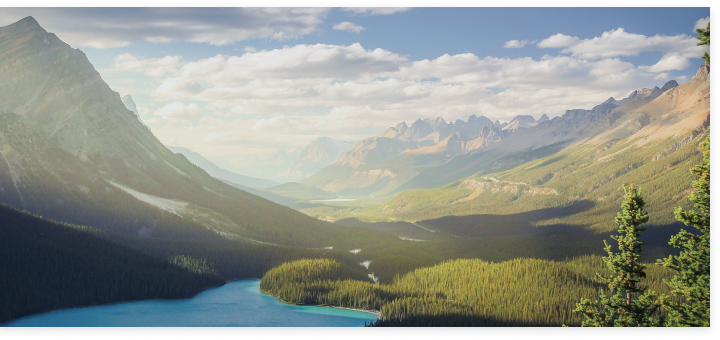
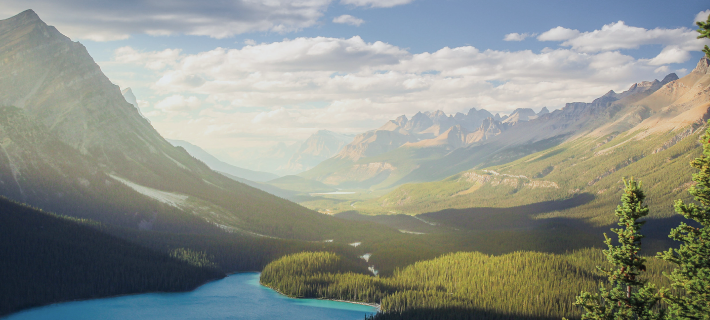
features

diff --git a/src/assets/sass/_features.scss b/src/assets/sass/_features.scss
@@ -1,16 +1,30 @@
 .features-section {
   height: 100vh;
   padding-top: 5.85rem;
+  box-sizing: content-box;
+  .container {
+    flex-direction: column;
+    .carousel_cont{
+      padding: 30px 0px 0px 0px;
+    }
+    .img_cont {
+      padding: 0px 0px 30px 0px;
+    }
+  }
+  .img_cont img {
+    height: 100%;
+    object-fit: cover;
+  }
   .features-title {
     font-family: Roboto;
     font-style: normal;
     font-weight: normal;
-    font-size: 36px;
+    font-size: 26px;
     line-height: 42px;
     letter-spacing: 0.1em;
     text-transform: uppercase;
     color: #707070;
-    padding: 0px 17%;
+    padding: 0px 8%;
     margin-bottom: 20px;
   }
   .carousel_cont {
@@ -20,27 +34,29 @@
   }
   .carousel {
     flex-grow: 1;
-    padding: 0px 17%;
+    padding: 0px 8%;
     display: flex;
     flex-direction: column;
     .carousel-indicators {
       order: 2;
       position: relative;
-      margin: 0px 59px 16px 59px;
+      margin: 0px 50px 16px 50px;
       height: 50px;
       display: flex;
       justify-content: space-evenly;
       align-items: center;
       padding: 0px 22px;
       li {
-        height: 24px;
-        width: 24px;
+        height: 14px;
+        width: 14px;
         border-radius: 50%;
         background: #d6d6d6;
-        box-sizing: border-box;
+        box-sizing: content-box;
         opacity: 1;
+        min-width: 14px;
+        border: none;
         &.active {
-          background: #76BDE5;
+          background: #76bde5;
         }
       }
     }
@@ -58,9 +74,11 @@
           line-height: 28px;
           text-transform: uppercase;
           color: #454545;
-          margin-bottom: 56px;
+          margin-bottom: 30px;
+          min-height: 56px;
         }
         .feat_desc {
+          min-height: 110px;
           text-align: left;
           font-family: Roboto;
           font-style: normal;
@@ -74,18 +92,20 @@
     .carousel-control-prev {
       bottom: 0;
       top: unset;
-      margin-left: calc(17% + 9px);
+      margin-left: 8%;
       margin-bottom: 16px;
       width: 50px;
       height: 50px;
-      background:#f9f9f9;
+      background: #f9f9f9;
       border-radius: 50%;
-      box-shadow: 2px 3px 8px rgba(0, 0, 0, 0.12), -2px -2px 4px rgba(255, 255, 255, 0.9), inset 0px 2px 0px #fdfdfd, inset 0px -2px 0px #f0f0f0;
+      box-shadow: 2px 3px 8px rgba(0, 0, 0, 0.12),
+        -2px -2px 4px rgba(255, 255, 255, 0.9), inset 0px 2px 0px #fdfdfd,
+        inset 0px -2px 0px #f0f0f0;
       display: flex;
       justify-content: center;
       align-items: center;
-      border: 0.5px solid #F5F5F5;
-      
+      border: 0.5px solid #f5f5f5;
+
       i {
         font-size: 20px;
         color: #999999;
@@ -94,21 +114,71 @@
     .carousel-control-next {
       bottom: 0;
       top: unset;
-      margin-right: calc(17% + 9px);
+      margin-right: 8%;
       margin-bottom: 16px;
       width: 50px;
       height: 50px;
-      background:#f9f9f9;
+      background: #f9f9f9;
       border-radius: 50%;
-      box-shadow: 2px 3px 8px rgba(0, 0, 0, 0.12), -2px -2px 4px rgba(255, 255, 255, 0.9), inset 0px 2px 0px #fdfdfd, inset 0px -2px 0px #f0f0f0;
+      box-shadow: 2px 3px 8px rgba(0, 0, 0, 0.12),
+        -2px -2px 4px rgba(255, 255, 255, 0.9), inset 0px 2px 0px #fdfdfd,
+        inset 0px -2px 0px #f0f0f0;
       display: flex;
       justify-content: center;
       align-items: center;
-      border: 0.5px solid #F5F5F5;
-      
+      border: 0.5px solid #f5f5f5;
+
       i {
         font-size: 20px;
         color: #999999;
+      }
+    }
+  }
+  @media (min-width: 360px) {
+    .features-title {
+      font-size: 30px;
+    }
+  }
+  @media (min-width: 568px) {
+    .features-title {
+      font-size: 36px;
+    }
+  }
+  @media (min-width: 992px) {
+    .container {
+      flex-direction: row;
+      .carousel_cont{
+        padding: 15px 0px;
+      }
+      .img_cont {
+        padding: 0px;
+      }
+      .features-title {
+        padding: 0px 10%;
+      }
+      .carousel {
+        padding: 0px 10%;
+        .carousel-inner {
+          .carousel-item {
+            .feat_desc {
+              min-height: 80px;
+            }
+          }
+        }
+        .carousel-indicators {
+          margin: 0px 59px 16px 59px;
+          li {
+            height: 18px;
+            width: 18px;
+            min-width: 18px;
+          }
+        }
+        .carousel-control-prev {
+          margin-left: calc(10% + 5px);
+        }
+        .carousel-control-next {
+          margin-right: calc(10% + 5px);
+        }
       }
     }
   }

diff --git a/src/components/Features.js b/src/components/Features.js
@@ -23,12 +23,10 @@ class Features extends Component {
     }
     render() {
         return (
-            <section id="features" className="features-section d-flex flex-column justify-content-center">
+            <section id="features" className="features-section d-flex flex-column justify-content-top">
                 <div className="container d-flex mx-0 px-0 mw-100">
-                    <div className="col pl-0">
-                        <div>
+                    <div className="col pl-0 img_cont">
                             <img src={photo} className="w-100" alt=""></img>
-                        </div>
                     </div>
                     <div className="col pr-0 carousel_cont">
                         <h1 className="features-title">{this.getTrans('features')}</h1>

diff --git a/src/pages/index.js b/src/pages/index.js
@@ -57,9 +57,9 @@ export default class IndexPage extends Component {
                     </div>
                 </header>
                 <About lang={this.state.lang} />
-                {/*<Features lang={this.state.lang} />
+                <Features lang={this.state.lang} />
                 <Reviews lang={this.state.lang} />
-                <Download lang={this.state.lang} />
+                {/*<Download lang={this.state.lang} />
                 <Price lang={this.state.lang} /> */}
                 <section id="logo_foot" className="logo-foot-section d-flex align-items-center justify-content-center">
                     <div className="logo_foot">

diff --git a/src/assets/sass/_about.scss b/src/assets/sass/_about.scss
@@ -13,7 +13,7 @@
         font-family: Roboto;
         font-style: normal;
         font-weight: normal;
-        font-size: 36px;
+        font-size: 26px;
         line-height: 42px;
         letter-spacing: 0.1em;
         text-transform: uppercase;
@@ -87,6 +87,24 @@
 
       #images {
         padding: 0px 12px 0px 27px;
+      }
+    }
+  }
+  @media (min-width: 360px) {
+    .container {
+      #text {
+        .about-title {
+          font-size: 30px;
+        }
+      }
+    }
+  }
+  @media (min-width: 568px) {
+    .container {
+      #text {
+        .about-title {
+          font-size: 36px;
+        }
       }
     }
   }
